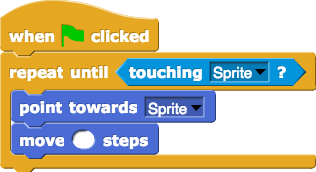
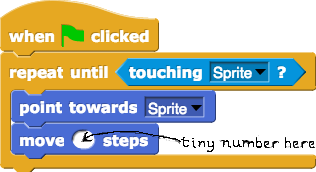
u1L2 trim

Changed region(s): [[0.4842, 0.7849, 0.9968, 0.9012], [0.2563, 0.7558, 0.4842, 0.843]]

diff --git a/cur/programming/1-introduction/2-drawing-interaction/2-following-sprites.html b/cur/programming/1-introduction/2-drawing-interaction/2-following-sprites.html
@@ -17,7 +17,7 @@
             </ul>
         </div>
         
-        <p>In this lab, you will program <em>two</em> sprites. One sprite will follow your mouse. The other sprite will chase the first. When they meet, they will have a short conversation.</p>
+        <p>On this page and the next, you will program <em>two</em> sprites. One sprite will follow your mouse. The other sprite will chase the first. When they meet, they will have a short conversation.</p>
 		<div class="forYouToDo" id="first">
 			<ol>
 				<li><div class="newProject"><span class="text">"U1L2-SpriteChase"</span><img src="/bjc-r/img/icons/new-project-called.png" alt="Create a new project called U1L2-SpriteChase" title="Create a new project called U1L2-SpriteChase" /></div></li>
@@ -25,15 +25,15 @@
                     Read and think about this script before you build it. What do you expect it to do?<br />
 	                <img class="imageRight" src="/bjc-r/img/icons/talk-with-your-partner-mini.png" alt="Talk with Your Partner" title="Talk with Your Partner" />
                     <img class="indent" src="/bjc-r/img/1-introduction/follow-that-mouse.png" alt="Follow That Mouse Script" title="Follow That Mouse Script" />
-                    <div class="endnote"><img src="/bjc-r/img/blocks/mouse-x.png" class="inline" alt="Mouse X Reporter"/> and <img src="/bjc-r/img/blocks/mouse-y.png" class="inline" alt="Mouse Y Reporter"/> report the mouse's location on the stage. You can find them in the Sensing palette.</div>
+                    <div class="endnote"><img src="/bjc-r/img/blocks/mouse-x.png" class="inline" alt="Mouse X Reporter"/> and <img src="/bjc-r/img/blocks/mouse-y.png" class="inline" alt="Mouse Y Reporter"/> report the mouse's location on the stage. Find them in the Sensing palette.</div>
                 </li>
                 <li>
 					Now build the script and run it. Move your mouse around the stage while the program is running.
                   <div class="endnote">The block at the top of the script is called a <strong>hat</strong> block.  Its shape emphasizes that it can be used only at the <em>beginning</em> of a script. Hat blocks don't say what the script should do; they say what <strong>event</strong> should start the script running. In this case, the script starts when the green flag button is clicked.<br /><br />To <em>stop</em> this script, click the red stop sign: <img class="button" src="/bjc-r/img/1-introduction/stop_button.png" style="height:1.9em;" alt="stop button" title="stop button"/> </div>
                 </li>
-                <li><img class="inline" src="/bjc-r/img/icons/talk-with-your-partner.png" alt="Talk with Your Partner" title="Talk with Your Partner" /> Does the program work the way you expected?</li>
+                <li> Does the program work the way you expected?</li>
                 <li> 
-                	Create a second sprite by clicking on the "add a new Turtle sprite" button just below the stage: <img src="/bjc-r/img/1-introduction/add-a-new-turtle-sprite.png" alt="add a new turtle sprite" title="add a new turtle sprite" /><a name="newTurtle" class="anchor">&nbsp;</a><br />
+               	  Create a second sprite by clicking on the <img src="/bjc-r/img/1-introduction/add-a-new-turtle-sprite.png" alt="add a new turtle sprite" title="add a new turtle sprite" /> button just below the stage. <a name="newTurtle" class="anchor">&nbsp;</a><br />
                     Then use the <code>point towards</code> block to make it point towards Sprite. The animation below shows how. 
 				  <img data-gifffer="/bjc-r/img/1-introduction/newsprite-pointing-to-old-sprite-part1.gif" alt="getting a new sprite" title="getting a new sprite" />                </li>
 	
@@ -54,7 +54,7 @@
                 </li>
                 <div class="endnote">While a script is running, its border lights up. If the running time is short, you may not notice the brief flash. </div>
                 <li>
-                    <img class="inline" src="/bjc-r/img/icons/talk-with-your-partner.png" alt="Talk with Your Partner" title="Talk with Your Partner" /> Click <img src="/bjc-r/img/1-introduction/green-flag_button.png" style="height:1.9em;" alt="green-flag button" title="green-flag button"/> and check that your script does what you intended:
+                    Click <img src="/bjc-r/img/1-introduction/green-flag_button.png" style="height:1.9em;" alt="green-flag button" title="green-flag button"/> and check that your script does what you intended:
                         <ul> 
                             <li>Sprite always follows your mouse.</li>
                             <li>Sprite(2) stays in one place, but always points toward Sprite.</li>
@@ -62,7 +62,7 @@
 				</li>
 				<div class="endnote">Both sprites' scripts use <code>When<img src="/bjc-r/img/1-introduction/green-flag_button.png" style="height:1.6em;" alt="green-flag button" title="green-flag button"/>clicked</code>, so <em>both</em> scripts run when <img src="/bjc-r/img/1-introduction/green-flag_button.png" style="height:1.9em;" alt="green-flag button" title="green-flag button"/> is clicked.</div>
 			</ol>
-		</div>
+	</div>
 		<p><img class="inline" src="/bjc-r/img/icons/save-now.png" alt="Now Is a Good Time to Save" title="Now Is a Good Time to Save" /></p>
           
     

diff --git a/cur/programming/1-introduction/2-drawing-interaction/1-exploring-snap-drawing-motion.html b/cur/programming/1-introduction/2-drawing-interaction/1-exploring-snap-drawing-motion.html
@@ -9,24 +9,24 @@
 	<body>
 		<h2>Drawing and Motion</h2>
         <img class="inline" src="/bjc-r/img/icons/work-with-a-partner.png" alt="Work with a Partner" title="Work with a Partner" />
-		<p> A script is a sequence of instructions that tells a computer what to do. A <strong>program</strong> is a set of <strong>scripts</strong>. In some programming languages, like <span class="snap">snap</span>, you program by dragging blocks (individual instructions) and snapping them together into scripts. In other languages, you <em>type</em> instructions to create scripts. The idea is the same.</p>
-<p>For now, you're using blocks that come built in with <span class="snap">snap</span>. Soon, you'll invent and create your own blocks&mdash;blocks that <span class="snap">snap</span> does not provide.</p>
+		<p> A <strong>script</strong> is a sequence of instructions that tells a computer what to do. A <strong>program</strong> is a set of scripts. In some programming languages, like <span class="snap">snap</span>, you program by dragging blocks (individual instructions) and snapping them together. In other languages, you <em>type</em> the instructions. The idea is the same.</p>
+<p>For now, you're using blocks that <span class="snap">snap</span> provides. Soon, you'll invent and create your own blocks.</p>
 
         
 		<div class="forYouToDo" id="first">
 			<ol>
-				<div class="sidenote">
+				<!-- <div class="sidenote">
                     <img class="imageCenter" src="/bjc-r/img/1-introduction/motion-palette-categories.jpg" alt="Motion palette categories: Motion, Looks, Sound, Pen, Control, Sensing, Operators, and Variables" title="Motion palette categories: Motion, Looks, Sound, Pen, Control, Sensing, Operators, and Variables" /><br />
                     The blocks' colors match their palettes: blue for Motion, green for Pen, etc.
-                </div>
+                </div> -->
 				<li>
                     Build this script. <br />
                     <img class="indent" src="/bjc-r/img/1-introduction/repeat-4(move-50-turn-right-90).png" alt="repeat-4(move-50-turn-clockwise-90)" title="pen down, repeat 4 (move 50 steps, turn CW 90 degrees)" /> <div class="sidenote">Clicking anywhere on a script runs it.</div> <br />
-                When you have built it, click on it to see what it does. Then click on  <img src="/bjc-r/img/1-introduction/pen-down.png" height="36" alt="pen down"> and then click on your script again.</li>	
+                <ul><li>Click on it to see what it does. </li><li>Click on  <img src="/bjc-r/img/1-introduction/pen-down.png" height="36" alt="pen down"> and then click on your script again.</li></ul></li>	
 						
 				<li><img src="/bjc-r/img/icons/talk-with-your-partner.png" alt="Talk with Your Partner" title="Talk with Your Partner"> Analyze <strong>why</strong> that script does what it does.</li>
 				<li>
-					<img src="/bjc-r/img/icons/talk-with-another-pair.png" alt="Talk with Another Pair" title="Talk with Another Pair" />
+					<!-- <img src="/bjc-r/img/icons/talk-with-another-pair.png" alt="Talk with Another Pair" title="Talk with Another Pair" />  -->
 					Compare your work with another pair. If your script behaves differently from theirs, check both.
 				</li>
                 <img class="inline" src="/bjc-r/img/icons/pair-programming-swap.png" alt="Pair Programming Swap" title="Pair Programming Swap" /> Switch who is sitting at the keyboard.
@@ -36,7 +36,7 @@
 						
                         <li>Change the number in the <img class="inline" src="/bjc-r/img/1-introduction/move-50.png" height="36" alt="move 50 steps" title="move 50 steps"> block <em>in your script</em> and click the script to run it with that new number.</li>
 						<li>
-                        	<div class="sidenote">You can click <img class="inline" src="/bjc-r/img/blocks/clear.png" height="36" alt="clear" title="clear" /> (or any other block) by itself in its palette or in the scripting area to run it at any time. If you click a block in a script, the entire script runs.</div>
+                        	<div class="sidenote">You can click <img class="inline" src="/bjc-r/img/blocks/clear.png" height="36" alt="clear" title="clear" /> (or any  block) by itself in its palette or in the scripting area to run it. If you click a block in a script, the entire script runs.</div>
                             Click the <img class="inline" src="/bjc-r/img/blocks/clear.png" height="36"  alt="clear" title="clear" /> block in the green Pen palette.</li>
                         <li>Change the number in the <img class="inline" src="/bjc-r/img/1-introduction/turn-right-90.png" height="36" alt="turn right 90 degrees" title="turn right 90 degrees"> block and run the script again... and again... and again.</li>
 						<li>Change the number in the <img class="inline" src="/bjc-r/img/1-introduction/repeat-4.png" alt="repeat 4" title="repeat 4" /> block.</li>

diff --git a/cur/programming/1-introduction/2-drawing-interaction/3-sprite-interaction.html b/cur/programming/1-introduction/2-drawing-interaction/3-sprite-interaction.html
@@ -10,7 +10,7 @@
     
 	<body>
 		<h2>Sprite Interaction</h2>
-		<p>Now, change the script so that the sprites don't repeat their movements forever, but <code>repeat until</code> they touch each other and then stop.</p>
+		<p>Now, change the script so that the sprites don't move forever, but only <code>repeat until</code> they touch.</p>
 		<div class="forYouToDo" id="first">
             <ol>
 				<li>
@@ -25,17 +25,17 @@
                     </ol>                        
                 </li>
 				<li>Do the same for  Sprite. Change its code to follow your mouse only until it is <code>touching Sprite(2)</code>.</li>
-                <li> Try out your program to check that it does what you intended:
+                <li> Test your program to see if it does what you want:
                 	<ul>
                     	<li>When you click <img src="/bjc-r/img/1-introduction/green-flag_button.png" style="height:1.6em;" alt="green-flag button"/>, Sprite (the gray one) should follow your mouse and Sprite(2) should keep turning to face Sprite.</li>
                         <li>If you bring Sprite close enough  to touch Sprite(2), both sprites should stop moving.</li>
                     </ul>
                 </li>
                 <li>
-                	Sprite(2) <em>points </em>toward Sprite, but doesn't <em>move</em> toward it.  Add a line of code so that Sprite(2) chases Sprite. Here's the idea:<br />
-					<img class="indent" src="/bjc-r/img/1-introduction/move-tiny.png" alt="repeat until touching, point toward sprite, move a tiny amount"><br />
+                	So far, Sprite(2) <em>points </em>toward Sprite, but doesn't <em>move</em> toward it.  Add a line of code to Sprite(2)'s script so that it chases Sprite. Here's the idea:<br /><div class="sidenote">Fill the input slot in the <code>move</code> block with a tiny number (probably less than 1) so  Sprite(2) doesn't catch Sprite too quickly.</div>
+					<img class="indent" src="/bjc-r/img/1-introduction/move-tiny.png" alt="repeat until touching, point toward sprite, move a tiny amount">
 <!--					<div class="takeNote">This kind of written-out code is often called "pseudo-code." It isn't precisely what your code would look like in <em>any</em> programming language, but it makes the logical steps clear. There are no special "rules" for writing pseudo-code. You may use your own style as long as you specify the logical steps clearly.</div> -->
-					Fill in the input slot in the <code>move</code> block with a tiny number (maybe even less than 1) so that Sprite(2) doesn't catch Sprite too quickly.
+					
 				</li>
 				<li>Test your program a few times. </li>
 
